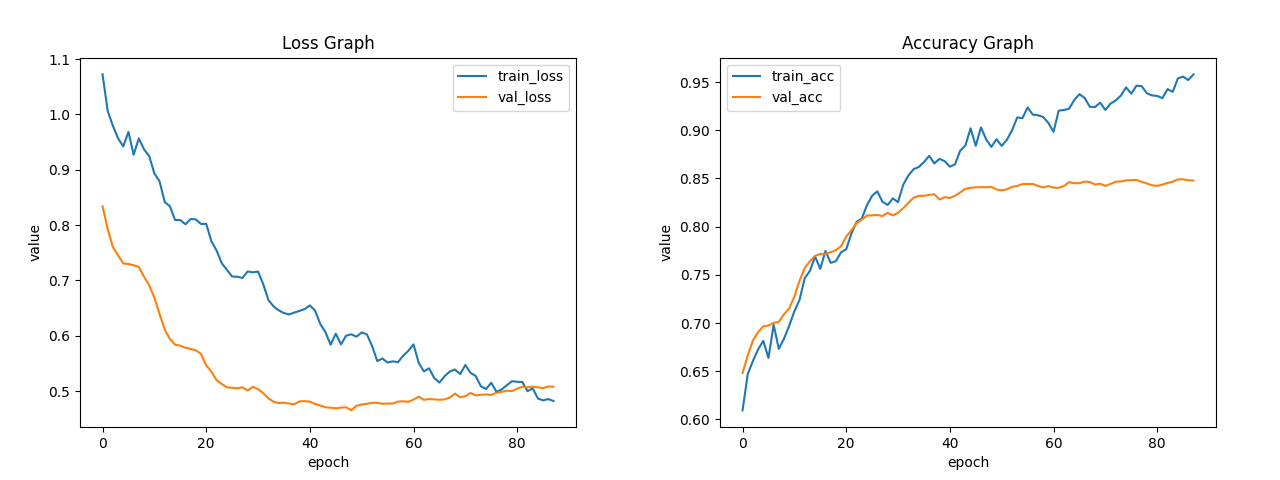
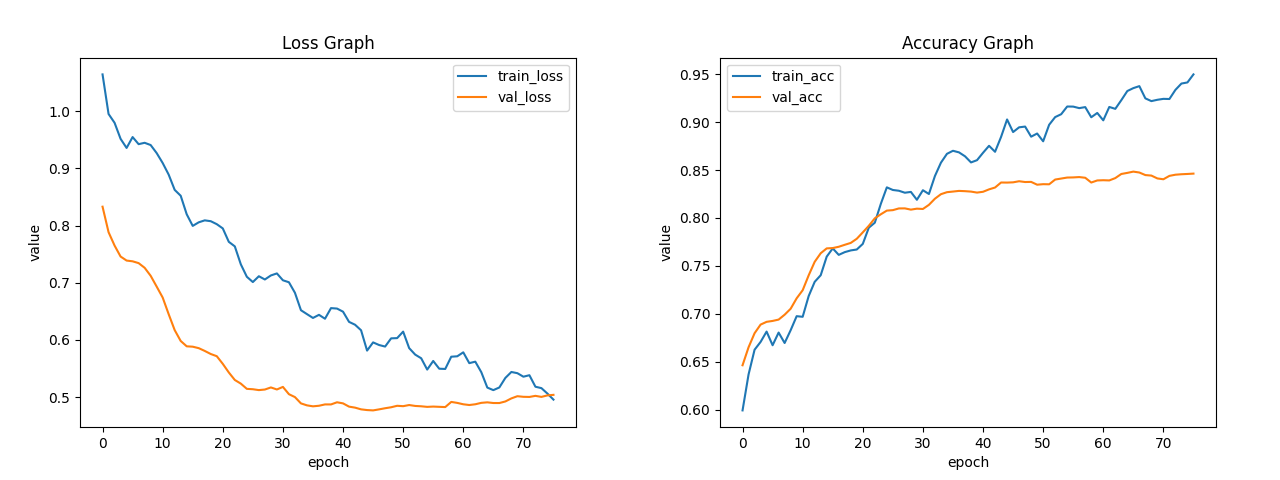
update

diff --git a/5.model.py b/5.model.py
@@ -13,6 +13,7 @@ import numpy as np
 import cv2 as cv
 import pandas as pd
 import matplotlib.pyplot as plt
+from sklearn.metrics import confusion_matrix, ConfusionMatrixDisplay
 
 # Set ENV to be 'local', 'server' or 'colab'
 ENV = "server".lower()
@@ -72,8 +73,8 @@ class FinetuneModule(pl.LightningModule):
     self.val_loader   = self.load_data("val", test_size, False)
     self.test_loader  = self.load_data("test", test_size, False)
     
-    self.correct_results = {'0': 0, '1': 0, '2': 0, '3': 0, '4': 0}
-    self.wrong_results = {'0': 0, '1': 0, '2': 0, '3': 0, '4': 0}
+    self.label_list = []
+    self.prediction_list = []
 
   def load_model(self):
     def add_stochastic_depth(model_name, model, drop_prob):
@@ -243,24 +244,13 @@ class FinetuneModule(pl.LightningModule):
     correct = (predictions == y).sum().item()
     test_acc = correct / x.shape[0]
 
-    y_list = y.tolist()
-    predictions_list = predictions.tolist()
-    for i in range(len(y_list)):
-      
-      if y_list[i] != predictions_list[i]:
-        self.wrong_results[str(y_list[i])] += 1
-      else:
-        self.correct_results[str(y_list[i])] += 1
-
+    self.label_list += y.tolist()
+    self.prediction_list += predictions.tolist()
+    
     self.log("test_loss", test_loss, on_epoch=True)
     self.log("test_acc", test_acc, on_epoch=True)
     
     return test_loss
-
-  def on_test_end(self):
-    new_keys = {"0": "clear", "1": "heavy_rain", "2": "light_rain", "3": "moderate_rain", "4" : "very_heavy_rain"}
-    self.correct_results = {new_keys.get(k, k): v for k, v in self.correct_results.items()}
-    self.wrong_results = {new_keys.get(k, k): v for k, v in self.wrong_results.items()}
   
   def configure_optimizers(self):
     def get_optimizer_settings():
@@ -367,7 +357,7 @@ class FinetuneModule(pl.LightningModule):
   def test_dataloader(self):
     return self.test_loader
 
-def plot_results(monitor_value, min_delta, save_path):
+def plot_loss_acc(monitor_value, min_delta, save_path, draw=True):
   if not os.path.exists(f"{save_path}/metrics.csv"):
     return None, None, None
   
@@ -391,27 +381,28 @@ def plot_results(monitor_value, min_delta, save_path):
   
   val_results = val_results.groupby(['epoch'], as_index=False).mean()
   
-  # Plotting loss
-  plt.plot(train_results['epoch'], train_results['train_loss'], label='train_loss')
-  plt.plot(val_results['epoch'], val_results['val_loss'], label='val_loss')
-  plt.legend()
-  plt.xlabel('epoch')
-  plt.ylabel('value')
-  plt.title('Loss Graph')
-  plt.legend()
-  plt.savefig(f'{save_path}/graph_loss.png')
+  if draw:
+    # Plotting loss
+    plt.plot(train_results['epoch'], train_results['train_loss'], label='train_loss')
+    plt.plot(val_results['epoch'], val_results['val_loss'], label='val_loss')
+    plt.legend()
+    plt.xlabel('epoch')
+    plt.ylabel('value')
+    plt.title('Loss Graph')
+    plt.legend()
+    plt.savefig(f'{save_path}/graph_loss.png')
 
-  plt.clf()
+    plt.clf()
 
-  # Plotting acc
-  plt.plot(train_results['epoch'], train_results['train_acc'], label='train_acc')
-  plt.plot(val_results['epoch'], val_results['val_acc'], label='val_acc')
-  plt.legend()
-  plt.xlabel('epoch')
-  plt.ylabel('value')
-  plt.title('Accuracy Graph')
-  plt.legend()
-  plt.savefig(f'{save_path}/graph_acc.png')
+    # Plotting acc
+    plt.plot(train_results['epoch'], train_results['train_acc'], label='train_acc')
+    plt.plot(val_results['epoch'], val_results['val_acc'], label='val_acc')
+    plt.legend()
+    plt.xlabel('epoch')
+    plt.ylabel('value')
+    plt.title('Accuracy Graph')
+    plt.legend()
+    plt.savefig(f'{save_path}/graph_acc.png')
 
   if "test_loss" in log_results.columns:
     test_results = log_results[['test_loss', 'test_acc']].dropna()
@@ -423,24 +414,60 @@ def plot_results(monitor_value, min_delta, save_path):
     
   return test_loss, test_acc, best_epoch
 
-def draw_accuracy_by_class(correct_results, wrong_results, save_path):
-    x = list(correct_results.keys())
-    y1 = [correct_results[label] / (correct_results[label] + wrong_results[label]) for label in x]
-    y2 = [wrong_results[label] / (correct_results[label] + wrong_results[label]) for label in x]
-    
-    plt.figure(figsize=(12, 8))
-    plt.bar(x, y1, color='lightgreen', label="correct_label")
-    plt.bar(x, y2, bottom=y1, color='lightcoral', label="wrong_label")
-    plt.xlabel("labels")
-    plt.ylabel("percentage")
-    plt.legend(["correct_label", "wrong_label"])
-    plt.title("Accuracy by each class")
-    plt.legend()
-    
-    plt.savefig(f'{save_path}/graph_test_acc_by_class.png')
-    
-    return {x[0] :y1[0], x[1] :y1[1], x[2] :y1[2], x[3] :y1[3], x[4] :y1[4]}
+def plot_confusion_matrix(labels, predictions, save_path, draw=True):
+  def calculate_metrics(confusion_matrix):
+      num_classes = confusion_matrix.shape[0]
+      precision = np.zeros(num_classes)
+      recall = np.zeros(num_classes)
+      f1 = np.zeros(num_classes)
+      
+      for i in range(num_classes):
+          TP = confusion_matrix[i, i]
+          FP = np.sum(confusion_matrix[:, i]) - TP
+          FN = np.sum(confusion_matrix[i, :]) - TP
+          TN = np.sum(confusion_matrix) - TP - FP - FN
+          precision[i] = TP / (TP + FP) if TP + FP != 0 else 0
+          recall[i] = TP / (TP + FN) if TP + FN != 0 else 0
+          f1[i] = 2 * precision[i] * recall[i] / (precision[i] + recall[i]) if precision[i] + recall[i] != 0 else 0
+      return precision, recall, f1
 
+  for i in range(len(labels)):
+    if str(labels[i]) == "0":
+        labels[i] = "clear"
+    elif str(labels[i]) == "1":
+        labels[i] = "heavy_rain"
+    elif str(labels[i]) == "2":
+        labels[i] = "light_rain"
+    elif str(labels[i]) == "3":
+        labels[i] = "moderate_rain"
+    elif str(labels[i]) == "4":
+        labels[i] = "very_heavy_rain"
+        
+  for i in range(len(predictions)):
+    if str(predictions[i]) == "0":
+        predictions[i] = "clear"
+    elif str(predictions[i]) == "1":
+        predictions[i] = "heavy_rain"
+    elif str(predictions[i]) == "2":
+        predictions[i] = "light_rain"
+    elif str(predictions[i]) == "3":
+        predictions[i] = "moderate_rain"
+    elif str(predictions[i]) == "4":
+        predictions[i] = "very_heavy_rain"
+  
+  if draw:
+    _, ax = plt.subplots(figsize=(10.5, 8))
+    display_labels = ['clear', 'light_rain', 'moderate_rain', 'heavy_rain', 'very_heavy_rain']
+    ConfusionMatrixDisplay.from_predictions(labels,
+                                            predictions,
+                                            display_labels=display_labels, 
+                                            ax=ax)
+    plt.title('Confusion Matrix')
+    plt.savefig(f'{save_path}/confusion_matrix.png')
+
+  cm = confusion_matrix(labels, predictions)
+  return calculate_metrics(cm)
+    
 if __name__ == '__main__':
   print("Python version: ", sys.version)
   print("Ubuntu version: ", platform.release())
@@ -463,17 +490,18 @@ if __name__ == '__main__':
   # Hyperparameters
   ## For model
    # 0 | 3600 | 7200 | 10800 | 14400 | 18000 | 21600 | 43200
-  interval = 7200
+  interval = 10800
   # convnext-s | convnext-b | convnext-l 
   # vit-s      | vit-b      | vit-l 
   # swin-s     | swin-b 
   # effnetv2-s | effnetv2-m
-  model_name = "convnext-l"
+  model_name = "convnext-b"
   model_option = "pretrained" # pretrained | custom
   num_classes = 5
-  stochastic_depth = 0.3 # 0.0 | 0.1 | 0.2 | 0.3 
+  stochastic_depth = 0.2 # 0.0 | 0.1 | 0.2 | 0.3 
   freeze = False
-  checkpoint = False
+  checkpoint = True
+  ckpt_version = "version_2"
   train_from_checkpoint = False
   continue_training = False
   
@@ -481,7 +509,8 @@ if __name__ == '__main__':
   print(f"Model: {model_name}-{model_option}")
   print(f"Stochastic depth: {stochastic_depth}")
   print(f"Freeze: {freeze}")
-  print(f"Load from checkpoint: {checkpoint}")
+  if not checkpoint:  print(f"Load from checkpoint: {checkpoint}")
+  else: print(f"Load from checkpoint: {checkpoint} [{ckpt_version}]")
   print(f"Train from checkpoint: {train_from_checkpoint}")
   print(f"Continue training: {continue_training}\n")
   
@@ -511,7 +540,7 @@ if __name__ == '__main__':
   min_epochs = 21 # 21 | 41 | 61
 
   ## For training loop
-  batch_size = 128 # 32 | 64 | 128 | 256
+  batch_size = 256 # 32 | 64 | 128 | 256
   epochs = 200
   epoch_ratio = 0.5 # Check val every percentage of an epoch
   label_smoothing = 0.1
@@ -582,9 +611,7 @@ if __name__ == '__main__':
                                                      verbose=True,)
   
   if checkpoint:
-    selected_version = "version_2"
-
-    module = FinetuneModule.load_from_checkpoint(f"{model_path}/{selected_version}/best_model.ckpt", 
+    module = FinetuneModule.load_from_checkpoint(f"{model_path}/{ckpt_version}/best_model.ckpt", 
                                                  model_settings=model_settings,
                                                  optimizer_settings=optimizer_settings, 
                                                  loop_settings=loop_settings)
@@ -605,7 +632,7 @@ if __name__ == '__main__':
         # Training loop
         train_start_time = time.time()
         if continue_training:
-          trainer.fit(module, ckpt_path=f"{model_path}/{selected_version}/best_model.ckpt")
+          trainer.fit(module, ckpt_path=f"{model_path}/{ckpt_version}/best_model.ckpt")
         else:
           trainer.fit(module)
         train_end_time = time.time() - train_start_time
@@ -622,16 +649,18 @@ if __name__ == '__main__':
         print(f"Evaluation time: {test_end_time} seconds")
 
         # Plot loss and accuracy
-        test_loss, tess_acc, best_epoch = plot_results(monitor_value, 
-                                                      min_delta, 
-                                                      f"{model_path}/{new_version}")
+        test_loss, tess_acc, best_epoch = plot_loss_acc(monitor_value, 
+                                                        min_delta, 
+                                                        f"{model_path}/{new_version}",
+                                                        draw=True)
         print(f"Best epoch [{monitor_value}]: {best_epoch}")
         
         # Plot testing accuracy by class
-        accuracy_by_class = draw_accuracy_by_class(module_test.correct_results, 
-                                                  module_test.wrong_results, 
-                                                  f"{model_path}/{new_version}")
-        print(f"Test accuracy by class: {accuracy_by_class}")
+        precision, recall, f1 = plot_confusion_matrix(module.label_list,
+                                                        module.prediction_list,
+                                                        f"{model_path}/{ckpt_version}",
+                                                        draw=True)
+        print(f"Precision:{precision}\nRecall: {recall}\nF1: {f1}")
         
         # Write down hyperparameters and results
         with open(f"{model_path}/{new_version}/notes.txt", 'w') as file:
@@ -643,13 +672,11 @@ if __name__ == '__main__':
           file.write('### Results ###\n')
           file.write(f"Test loss: {test_loss}\n")
           file.write(f"Test accuracy: {tess_acc}\n")
-          file.write(f"Test accuracy by class: {accuracy_by_class}\n")
+          file.write(f"Precision:{precision}\nRecall: {recall}\nF1: {f1}\n")
           file.write(f"Best epoch ({monitor_value}): {best_epoch}\n")
           file.write(f"Training time: {train_end_time} seconds\n")
-          file.write(f"Load from: {interval}-{selected_version}\n")
+          file.write(f"Load from: {interval}-{ckpt_version}\n")
           file.write(f"Continue training: {continue_training}\n")
-        
-              # Move architecture file to the corresponding version
 
         # Move architecture file to the corresponding version
         if os.path.exists(f"{model_path}/architecture.txt"):
@@ -674,6 +701,21 @@ if __name__ == '__main__':
         end_time = time.time()
         print(f"Evaluation time: {end_time - start_time} seconds")
         
+        test_loss, tess_acc, best_epoch = plot_loss_acc(monitor_value, 
+                                                        min_delta, 
+                                                        f"{model_path}/{ckpt_version}",
+                                                        draw=True)
+        print(f"Best epoch [{monitor_value}]: {best_epoch}")
+        
+        precision, recall, f1 = plot_confusion_matrix(module.label_list,
+                                                      module.prediction_list,
+                                                      f"{model_path}/{ckpt_version}",
+                                                      draw=True)
+        print(f"Precision:{precision}\nRecall: {recall}\nF1: {f1}")
+        
+        # Move architecture file to the corresponding version
+        if os.path.exists(f"{model_path}/architecture.txt"):
+          shutil.move(f"{model_path}/architecture.txt", f"{model_path}/{ckpt_version}/architecture.txt")
       except Exception as e:
         print(e)
         logging.error(e, exc_info=True)
@@ -713,16 +755,18 @@ if __name__ == '__main__':
       print(f"Evaluation time: {test_end_time} seconds")
 
       # Plot loss and accuracy
-      test_loss, tess_acc, best_epoch = plot_results(monitor_value, 
+      test_loss, tess_acc, best_epoch = plot_loss_acc(monitor_value, 
                                                      min_delta, 
-                                                     f"{model_path}/{new_version}")
+                                                     f"{model_path}/{new_version}",
+                                                     draw=True)
       print(f"Best epoch [{monitor_value}]: {best_epoch}")
       
       # Plot testing accuracy by class
-      accuracy_by_class = draw_accuracy_by_class(module_test.correct_results, 
-                                                 module_test.wrong_results, 
-                                                 f"{model_path}/{new_version}")
-      print(f"Test accuracy by class: {accuracy_by_class}")
+      precision, recall, f1 = plot_confusion_matrix(module.label_list,
+                                                    module.prediction_list,
+                                                    f"{model_path}/{ckpt_version}",
+                                                    draw=True)
+      print(f"Precision:{precision}\nRecall: {recall}\nF1: {f1}")
       
       # Write down hyperparameters and results
       with open(f"{model_path}/{new_version}/notes.txt", 'w') as file:
@@ -734,7 +778,7 @@ if __name__ == '__main__':
         file.write('### Results ###\n')
         file.write(f"Test loss: {test_loss}\n")
         file.write(f"Test accuracy: {tess_acc}\n")
-        file.write(f"Test accuracy by class: {accuracy_by_class}\n")
+        file.write(f"Precision:{precision}\nRecall: {recall}\nF1: {f1}\n")
         file.write(f"Best epoch ({monitor_value}): {best_epoch}\n")
         file.write(f"Training time: {train_end_time} seconds\n")
       
